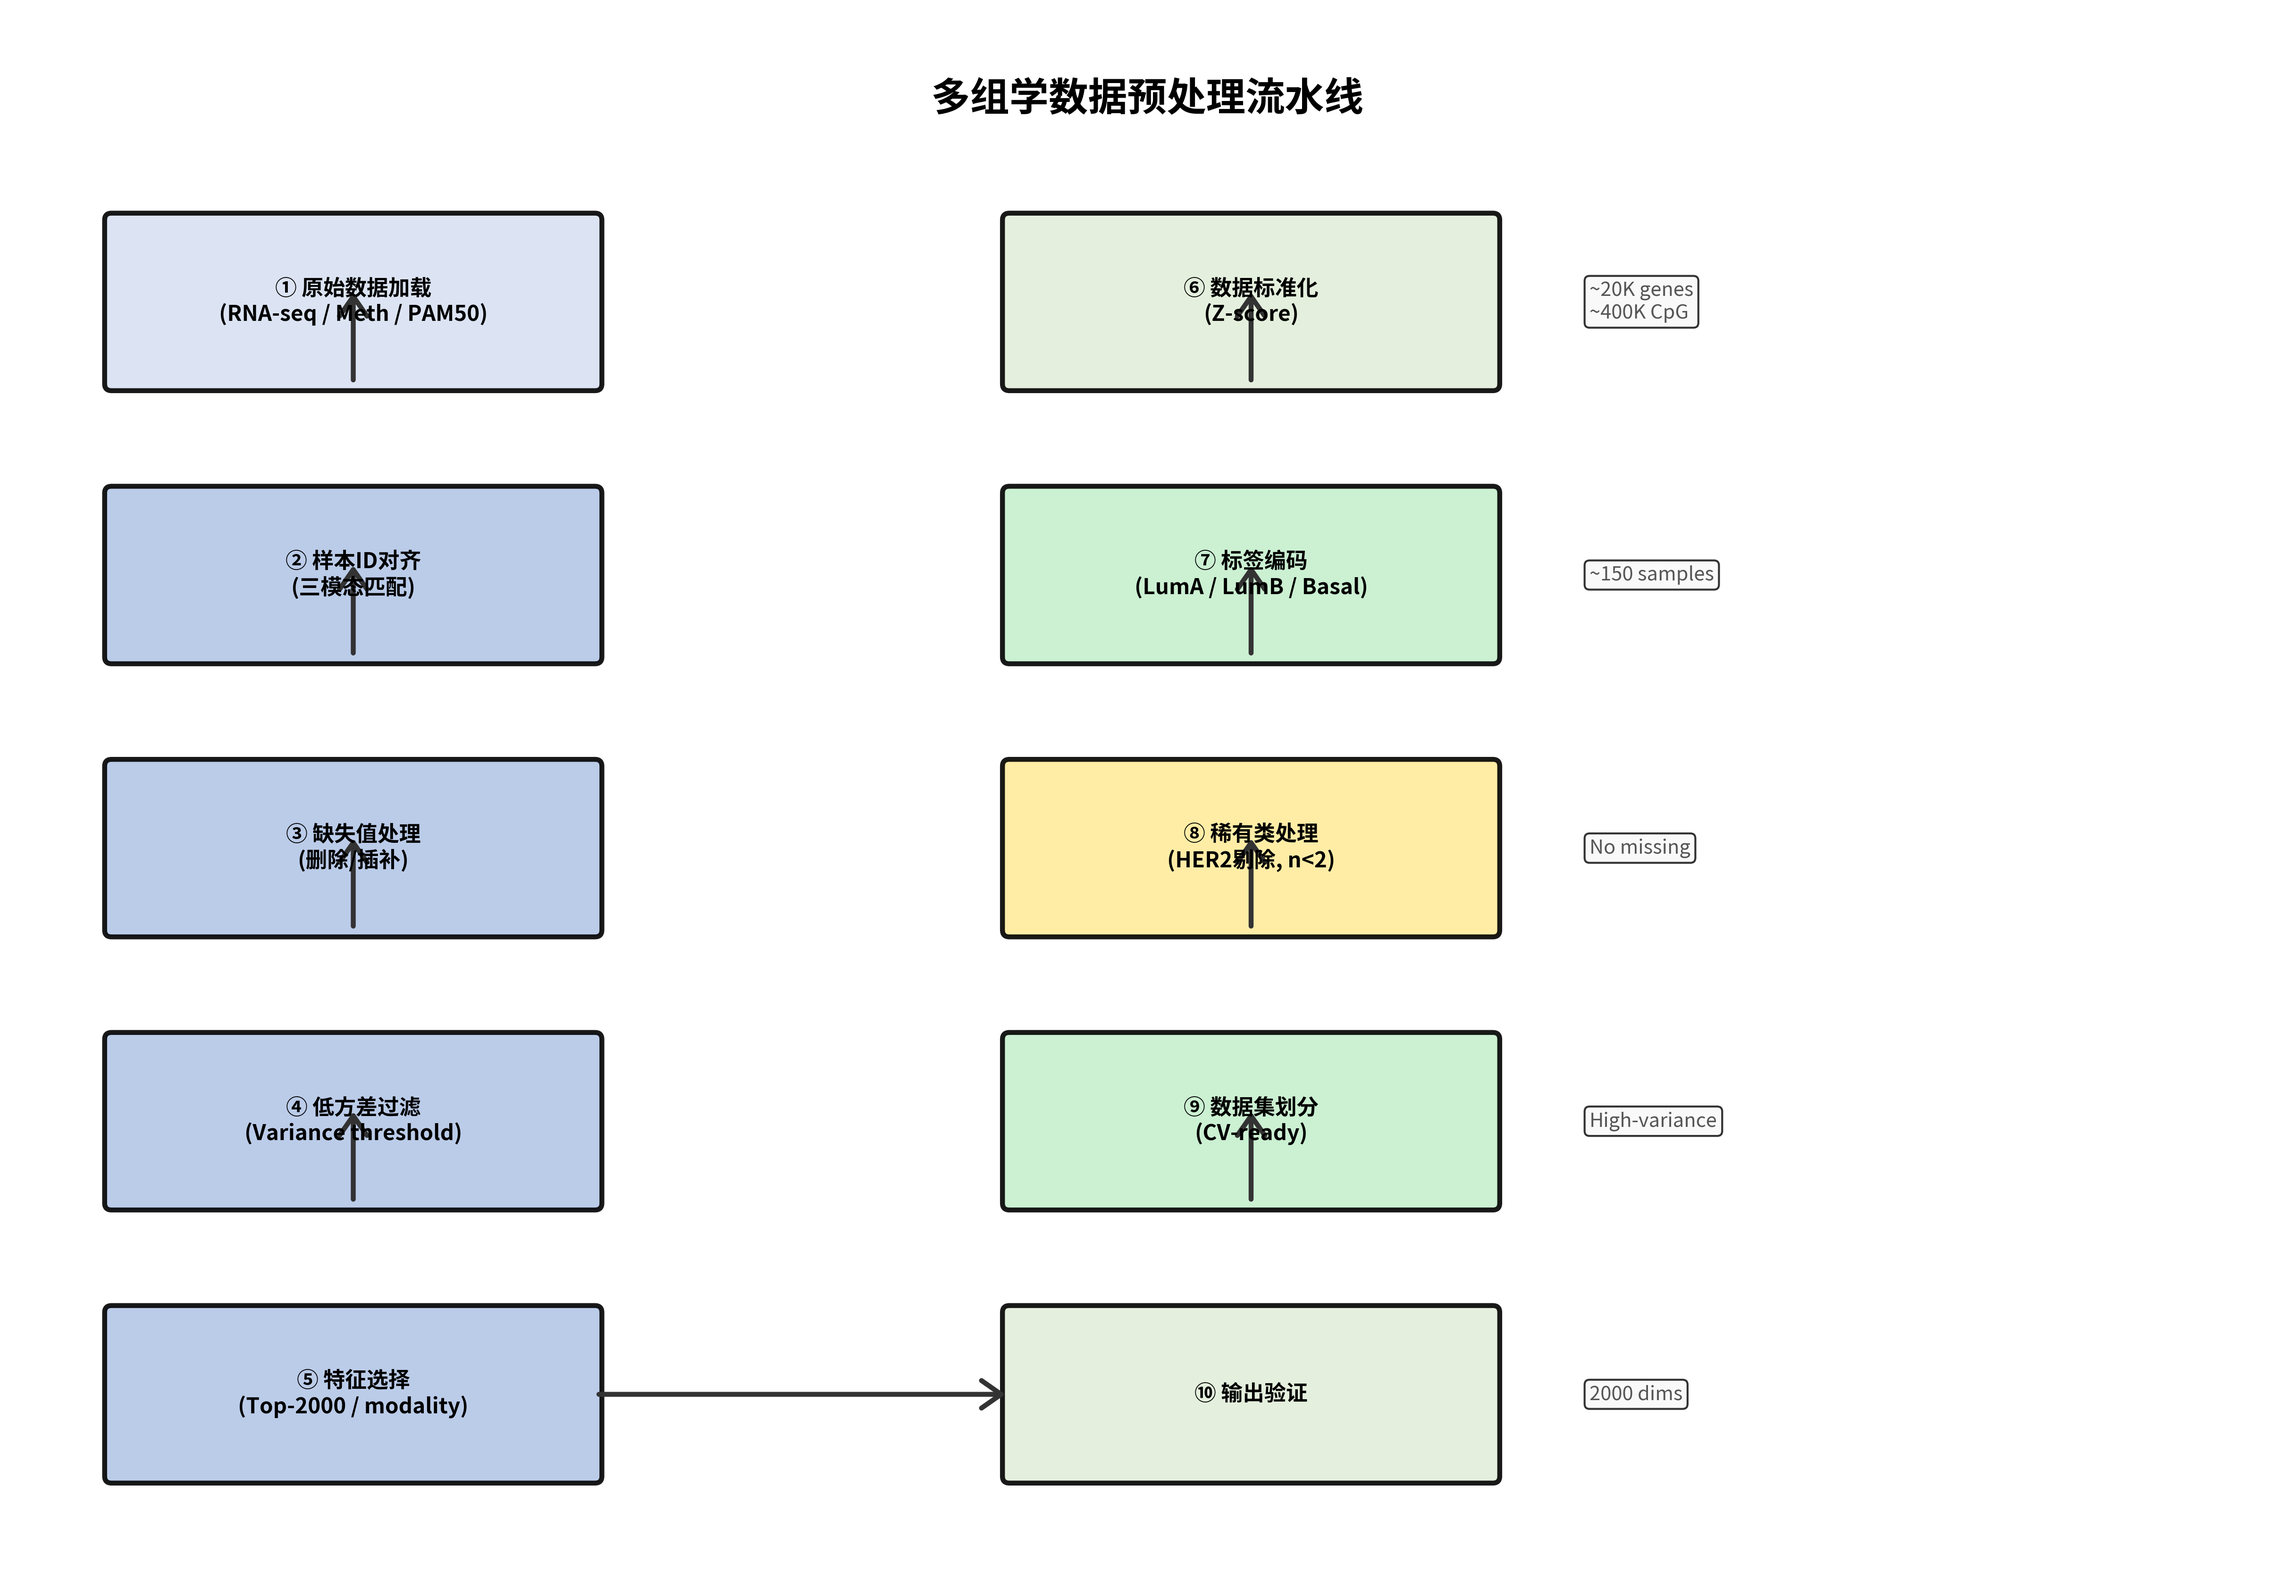
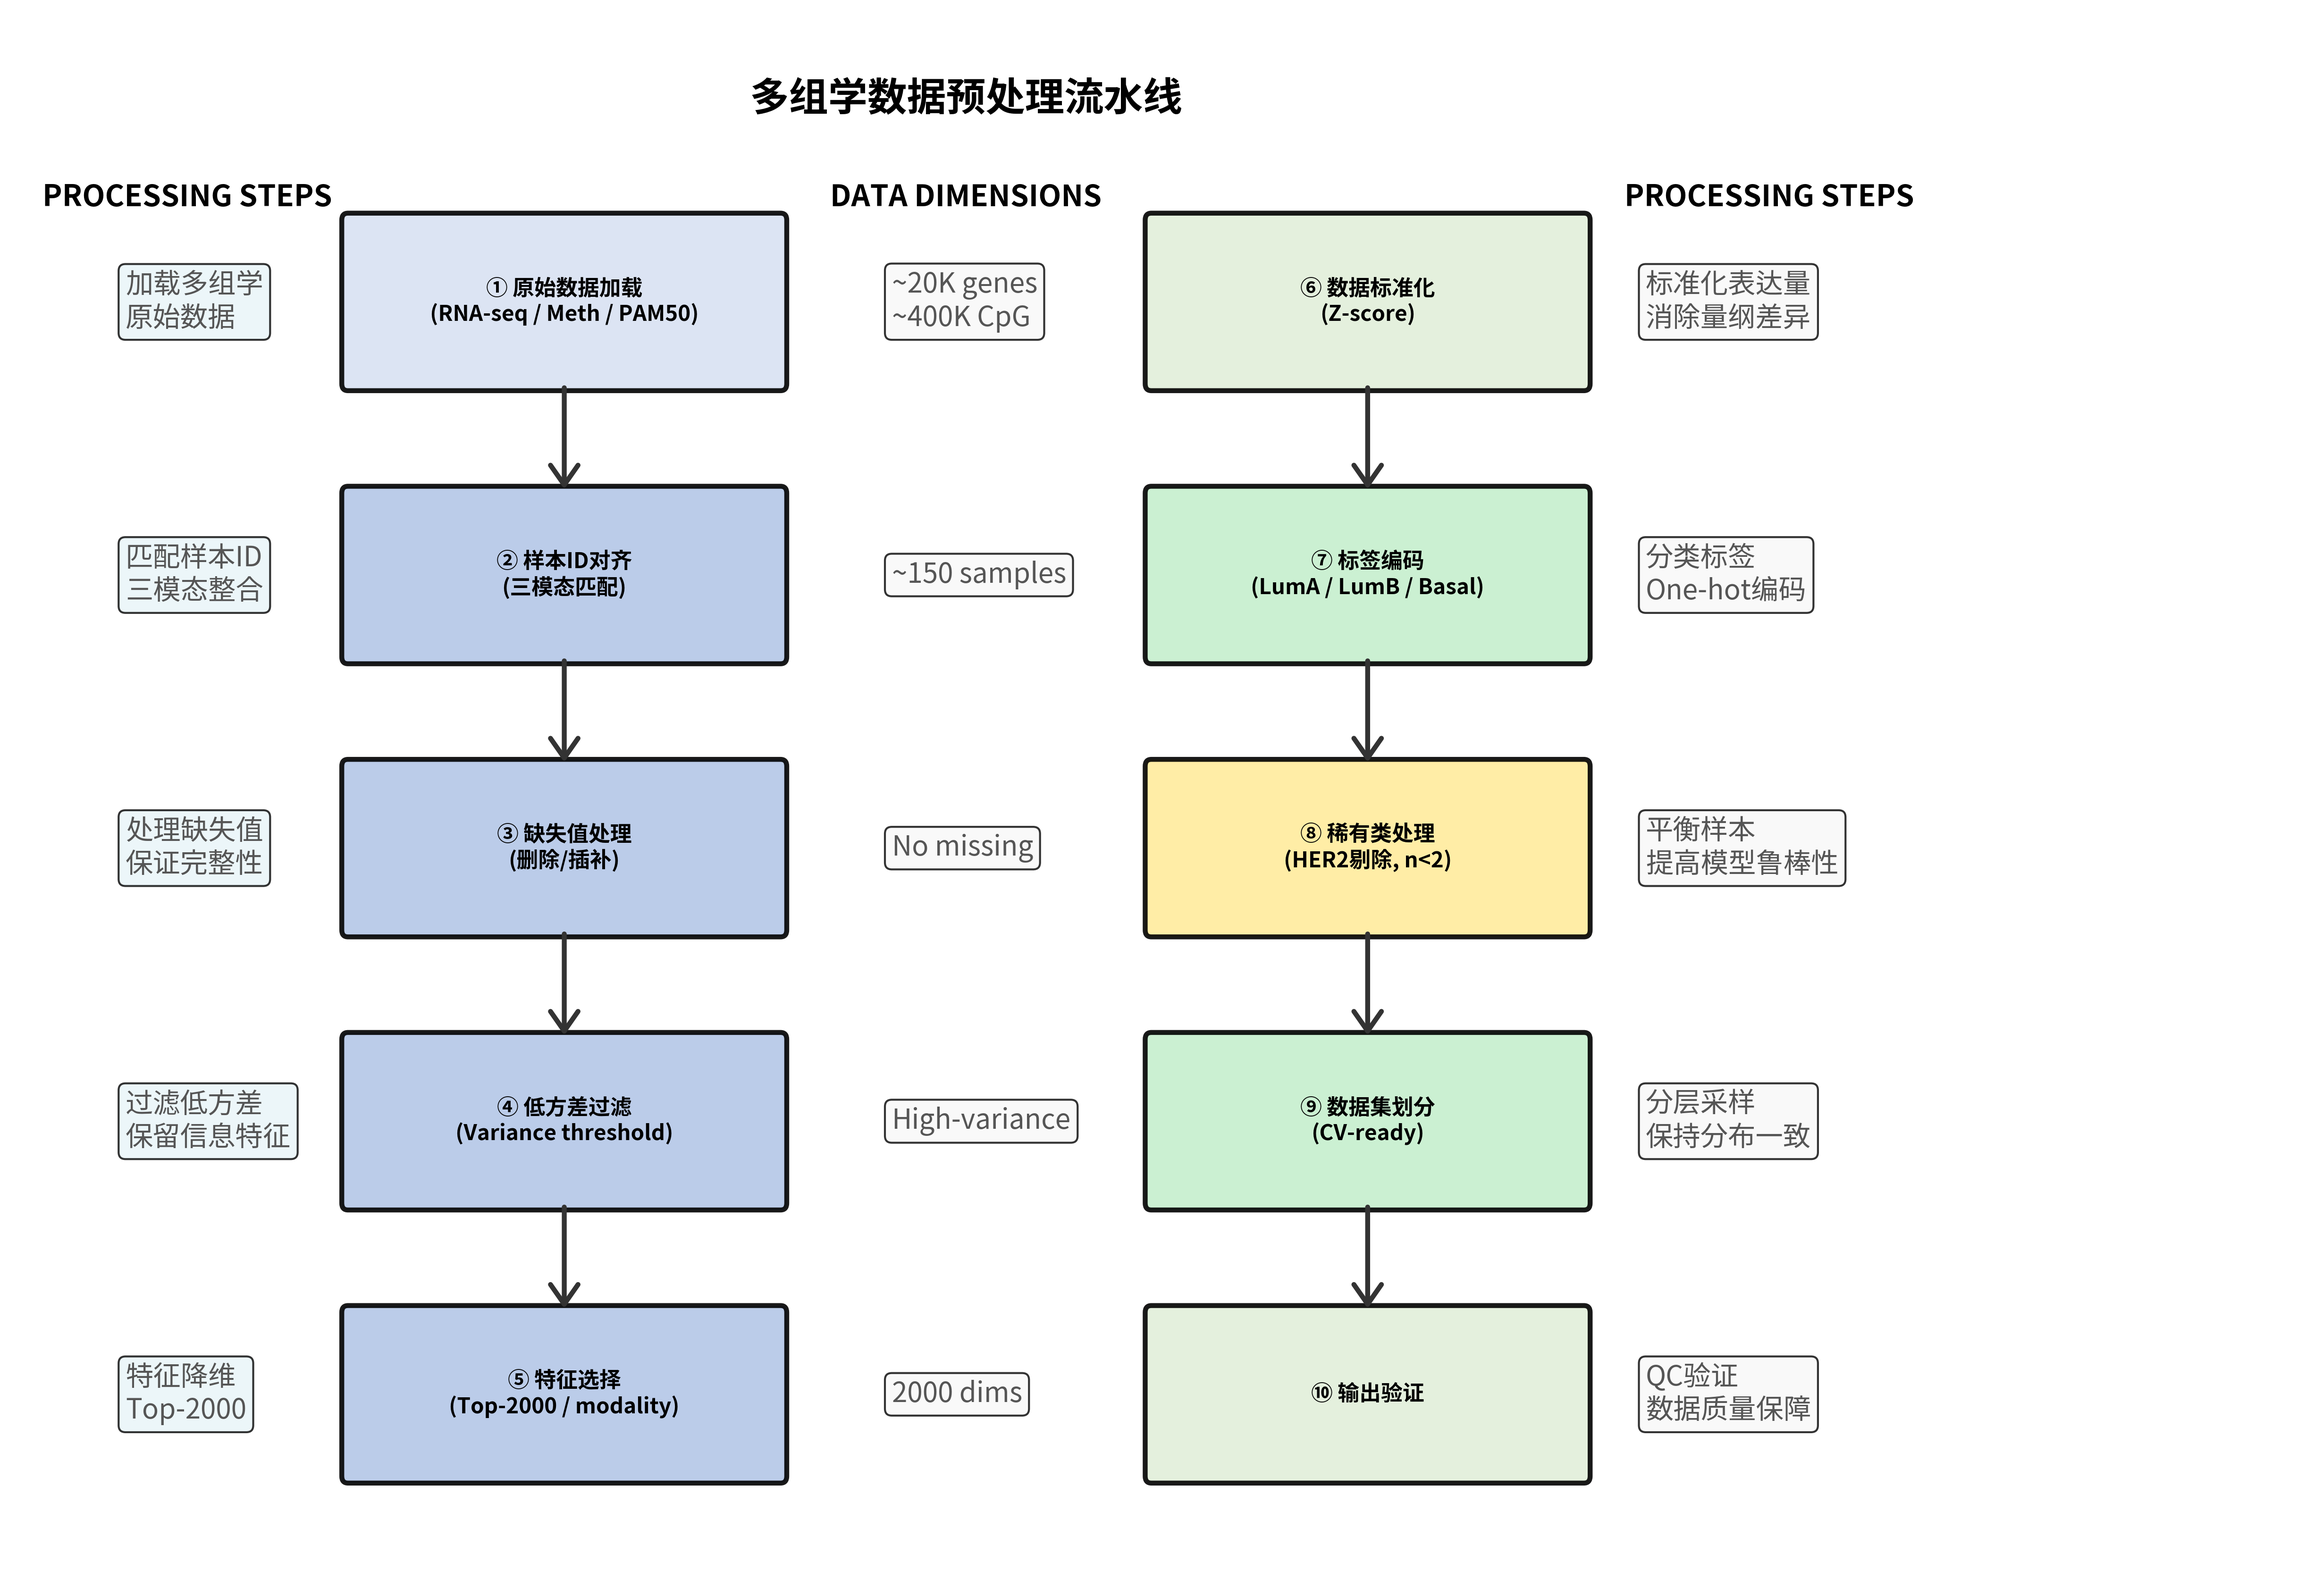
refactor(scripts): 优化图表生成脚本并更新图表布局
重构图表生成脚本，简化文档注释并调整图表布局
- 移除冗余的优化说明注释
- 调整预处理流程图标题位置
- 重新设计箭头连接方式
- 添加处理步骤和数据维度标注
- 简化特征分布图标题

diff --git a/scripts/chapter2/generate_figures.py b/scripts/chapter2/generate_figures.py
@@ -1,13 +1,7 @@
 #!/usr/bin/env python3
 # -*- coding: utf-8 -*-
 """
-第2章：数据分布与预处理 - 图表生成脚本（美化版）
-
-优化要点：
-1. 全局字号提升（标题16→18，正文11→13，标注9→11）
-2. 关键信息用高对比色块/粗体突出
-3. 精简冗余文字，保留核心信息
-4. 增大图表尺寸以容纳更大字号
+第2章：数据分布与预处理 - 图表生成脚本
 """
 
 import os
@@ -103,7 +97,7 @@ def generate_fig2_data_preprocessing_pipeline():
     ax.set_ylim(0, 11)
     ax.axis('off')
 
-    ax.text(8, 10.5, '多组学数据预处理流水线', ha='center', fontsize=20, fontweight='bold')
+    ax.text(5.5, 10.5, '多组学数据预处理流水线', ha='center', fontsize=20, fontweight='bold')
 
     def draw_box(x, y, w, h, text, color, fontsize=11):
         box = FancyBboxPatch((x, y), w, h, boxstyle="round,pad=0.05",
@@ -132,23 +126,50 @@ def generate_fig2_data_preprocessing_pipeline():
     draw_box(7, 2.5, 3.5, 1.2, '⑨ 数据集划分\n(CV-ready)', '#C6EFCE')
     draw_box(7, 0.5, 3.5, 1.2, '⑩ 输出验证', '#E2EFDA')
 
-    # 箭头
-    for y in [8.5, 6.5, 4.5, 2.5]:
-        draw_arrow(2.25, y, 2.25, y + 0.7)
-    for y in [8.5, 6.5, 4.5, 2.5]:
-        draw_arrow(8.75, y, 8.75, y + 0.7)
-    draw_arrow(4, 1.1, 7, 1.1)
+    # 箭头 - 从上一个框底部指向下一个框顶部（向下方向）
+    for y in [9.7, 7.7, 5.7, 3.7]:  # 使用每个框的顶部位置作为起点
+        draw_arrow(2.25, y - 1.2, 2.25, y - 2.0)
+    for y in [9.7, 7.7, 5.7, 3.7]:
+        draw_arrow(8.75, y - 1.2, 8.75, y - 2.0)
+    #draw_arrow(4, 1.1, 7, 1.1)
 
+    # 左列流程作用标注
+    ax.text(-0.8, 9.8, 'PROCESSING STEPS', ha='center', fontsize=15, fontweight='bold')
+    input_notes = [
+        (-1.3, 9.1, '加载多组学\n原始数据'),
+        (-1.3, 7.1, '匹配样本ID\n三模态整合'),
+        (-1.3, 5.1, '处理缺失值\n保证完整性'),
+        (-1.3, 3.1, '过滤低方差\n保留信息特征'),
+        (-1.3, 1.1, '特征降维\nTop-2000'),
+    ]
+    for x, y, text in input_notes:
+        ax.text(x, y, text, ha='left', va='center', fontsize=14, color='#555555',
+                bbox=dict(boxstyle='round,pad=0.25', facecolor='#E8F4F8', alpha=0.8))
+
+    ax.text(5.5, 9.8, 'DATA DIMENSIONS', ha='center', fontsize=15, fontweight='bold')
     # 精简维度标注
     dim_notes = [
-        (11.2, 9.1, '~20K genes\n~400K CpG'),
-        (11.2, 7.1, '~150 samples'),
-        (11.2, 5.1, 'No missing'),
-        (11.2, 3.1, 'High-variance'),
-        (11.2, 1.1, '2000 dims'),
+        (4.9, 9.1, '~20K genes\n~400K CpG'),
+        (4.9, 7.1, '~150 samples'),
+        (4.9, 5.1, 'No missing'),
+        (4.9, 3.1, 'High-variance'),
+        (4.9, 1.1, '2000 dims'),
     ]
     for x, y, text in dim_notes:
-        ax.text(x, y, text, ha='left', va='center', fontsize=10, color='#555555',
+        ax.text(x, y, text, ha='left', va='center', fontsize=14, color='#555555',
+                bbox=dict(boxstyle='round,pad=0.25', facecolor='#F8F8F8', alpha=0.8))
+
+    # 右列流程作用标注
+    ax.text(12, 9.8, 'PROCESSING STEPS', ha='center', fontsize=15, fontweight='bold')
+    process_notes = [
+        (11.0, 9.1, '标准化表达量\n消除量纲差异'),
+        (11.0, 7.1, '分类标签\nOne-hot编码'),
+        (11.0, 5.1, '平衡样本\n提高模型鲁棒性'),
+        (11.0, 3.1, '分层采样\n保持分布一致'),
+        (11.0, 1.1, 'QC验证\n数据质量保障'),
+    ]
+    for x, y, text in process_notes:
+        ax.text(x, y, text, ha='left', va='center', fontsize=14, color='#555555',
                 bbox=dict(boxstyle='round,pad=0.25', facecolor='#F8F8F8', alpha=0.8))
 
     plt.tight_layout()
@@ -222,7 +243,7 @@ def generate_fig3_feature_distribution():
     ax4.spines['top'].set_visible(False)
     ax4.spines['right'].set_visible(False)
 
-    plt.suptitle('多组学特征分布对比：标准化前后', fontsize=18, fontweight='bold', y=0.98)
+    plt.suptitle('多组学特征分布对比', fontsize=18, fontweight='bold', y=0.98)
     plt.tight_layout()
 
     output_path = OUTPUT_DIR / 'fig3_feature_distribution.png'
